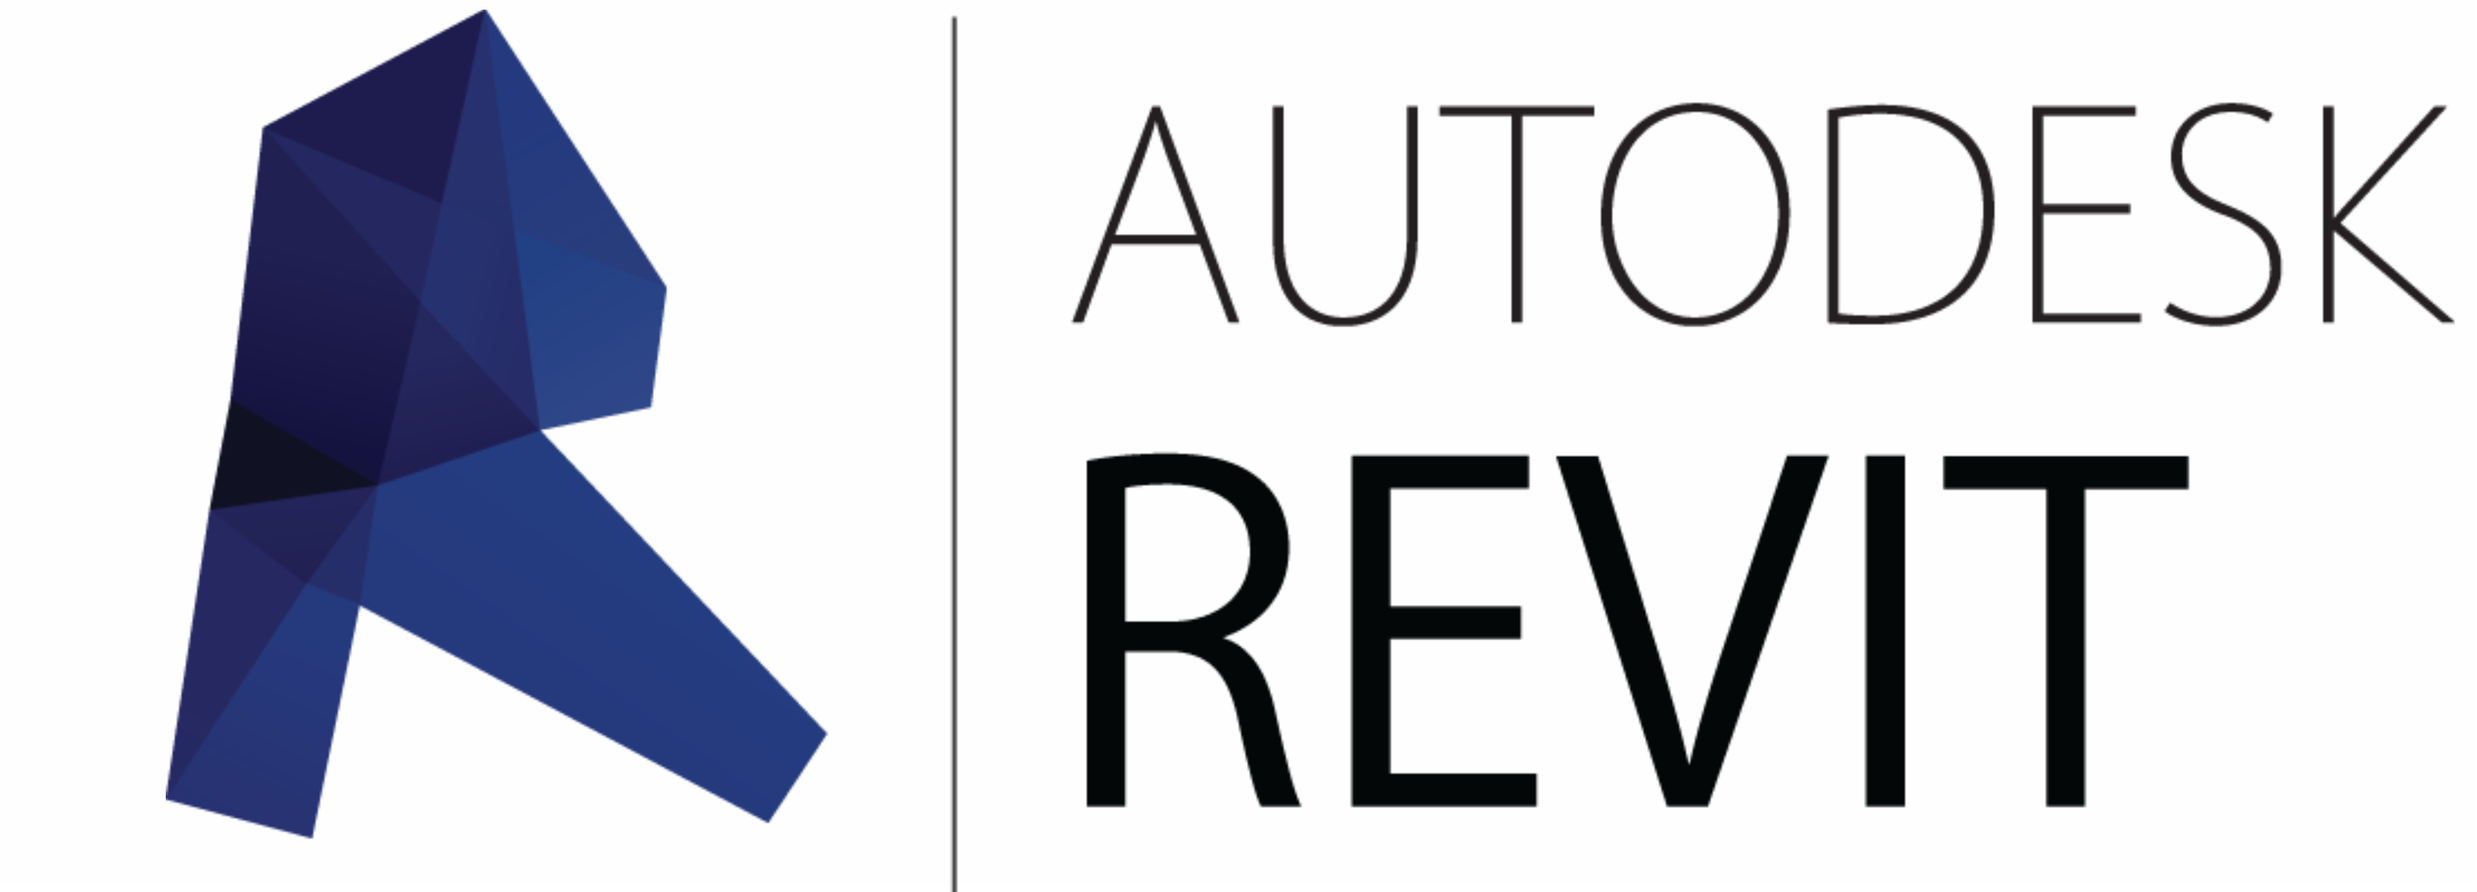
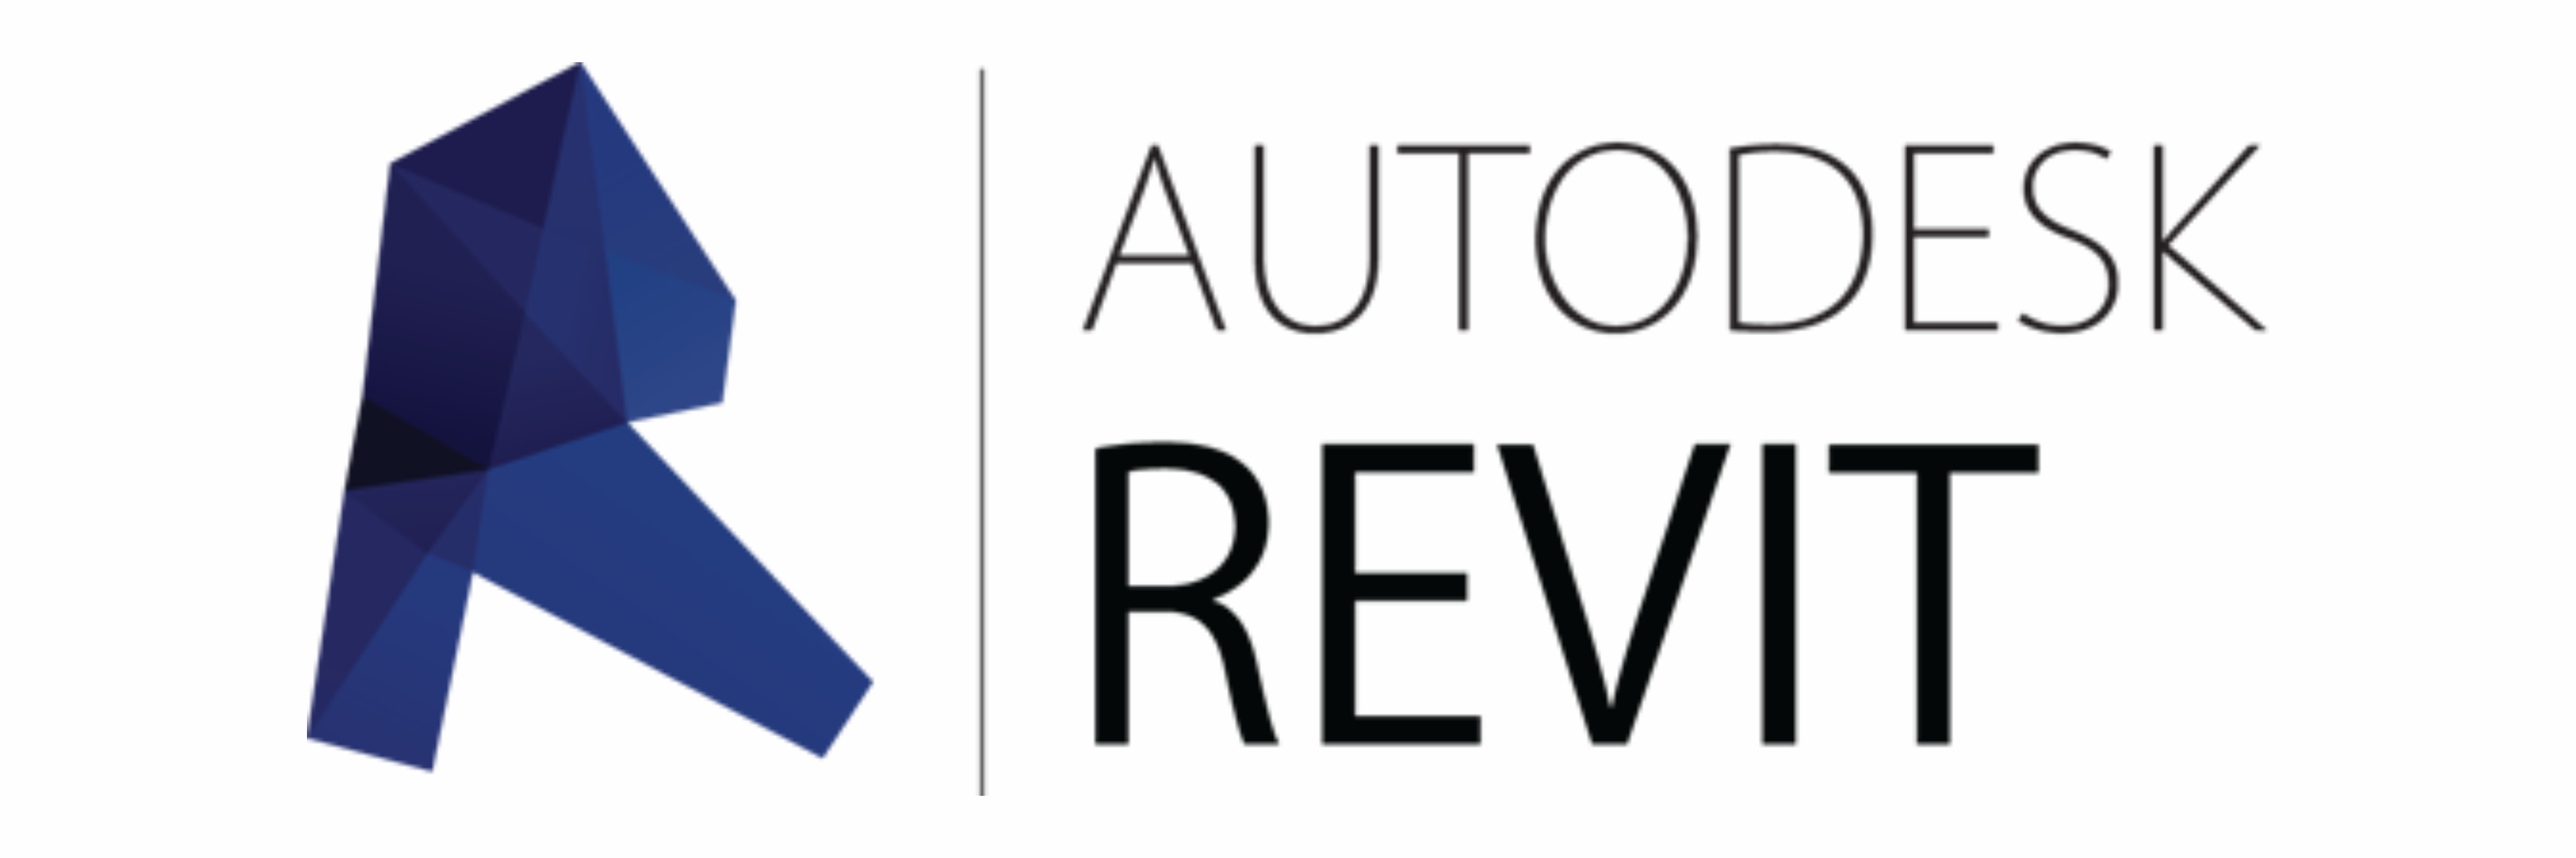
cambios en brand

Changed region(s): [[0.3743, 0.0625, 0.9981, 0.9375], [0.0624, 0.0, 0.3431, 0.9375]]

diff --git a/src/pages/tasks/Tasks.js b/src/pages/tasks/Tasks.js
@@ -1,0 +1,81 @@
+import React, { useState } from 'react'
+import { GiHornedHelm } from 'react-icons/gi'
+import { AiOutlinePlus, AiOutlineClose } from 'react-icons/ai'
+
+function Tasks() {
+  const [tasks, setTasks] = useState([])
+  const [input, setInput] = useState('')
+
+  // add tasks
+  const handleSubmit = (e) => {
+    e.preventDefault()
+    const addTask = {
+      id: Math.floor(Math.random() * 1000),
+      text: input,
+      completed: false
+    }
+    setTasks([...tasks, addTask])
+    setInput('')
+  }
+
+  // delete tasks
+  const deleteTask = (id) => {
+    let filteredTasks = [...tasks].filter((tasks) => tasks.id !== id)
+    setTasks(filteredTasks)
+    console.log('task deleted')
+  }
+
+  // toggle completed task
+  const toggleComplete = (id) => {
+    setTasks(
+      tasks.map(task => (
+        task.id === id ? { ...task, completed: !task.completed } : task
+      ))
+    )
+  }
+
+  const date = new Date()
+  // console.log(date)
+  const days = ["Sunday", "Monday", "Tuesday", "Wednesday", "Thursday", "Friday", "Saturday"]
+  const months = ["January", "February", "March", "April", "May", "June", "July", "August", "September", "October", "November", "December"]
+
+
+  return (
+    <div className='app'>
+      <div className="container">
+        <h1><GiHornedHelm /> Powerlist</h1>
+
+        <div className="date">
+          <p>{days[date.getDay()]}</p>
+          <p>{date.getDate()},</p>
+          <p>{months[date.getMonth()]}</p>
+          <p>{date.getFullYear()}</p>
+        </div>
+
+        <form onSubmit={handleSubmit}>
+          <div className="form-input">
+            <AiOutlinePlus className='icon' />
+            <input
+              value={input}
+              onChange={e => setInput(e.target.value)}
+              placeholder='Enter a task'
+              type="text" />
+          </div>
+        </form>
+
+        <div>
+          {tasks.map(task => (
+            <div className={`task-row ${task.completed ? 'completed' : ''}`} key={task.id} onDoubleClick={() => toggleComplete(task.id)} >
+              <p>{task.text} </p>
+              <AiOutlineClose onClick={() => deleteTask(task.id)} className='icon' />
+            </div>
+          ))}
+        </div>
+
+          <p className='length'>{(tasks < 1) ? 'You have no tasks' : `Tasks: ${tasks.length}`}</p>
+      </div>
+    </div>
+  );
+}
+
+export default Tasks;

diff --git a/src/App.js b/src/App.js
@@ -1,7 +1,7 @@
 import { BrowserRouter, Routes, Route } from 'react-router-dom';
 import { Navbar } from './components';
 import { Footer } from './containers';
-import { Home, Mineria, Coinsearch, Familia, ErrorPage } from './pages';
+import { Home, Mineria, Coinsearch, Familia, Tareas, ErrorPage } from './pages';
 
 import './App.css';
 
@@ -14,6 +14,7 @@ export default function App() {
                 <Route path="/mario_molina/mining" element={<Mineria />}/>
                 <Route path="/mario_molina/mining/coinsearch" element={<Coinsearch />}/>                
                 <Route path="/mario_molina/family" element={<Familia />}/>
+                <Route path="/mario_molina/tasks" element={<Tareas />}/>
                 <Route path="*" element={<ErrorPage />}/>
             </Routes>
             <Footer/>

diff --git a/src/components/brand/imports.js b/src/components/brand/imports.js
@@ -1,20 +1,9 @@
-import google from "../../assets/google.png"
-import slack from "../../assets/slack.png"
-import atlassian from "../../assets/atlassian.png"
-import dropbox from "../../assets/dropbox.png"
-import shopify from "../../assets/shopify.png"
-
 import autocad from "../../assets/soft/autocad.png"
 import revit from "../../assets/soft/revit.png"
 import cype from "../../assets/soft/cype.png"
 import lumion from "../../assets/soft/lumion.png"
 
-export {
-    google,
-    slack,
-    atlassian,
-    dropbox,
-    shopify,
+export {    
     autocad,
     revit,
     cype,

diff --git a/src/pages/index.js b/src/pages/index.js
@@ -2,4 +2,5 @@ export { default as Home } from './home/Home';
 export { default as Mineria } from './mining/Mining';
 export { default as Coinsearch } from './mining/coinsearch/Coinsearch';
 export { default as Familia } from './family/Family';
+export { default as Tareas } from './tasks/Tasks';
 export { default as ErrorPage } from './errorpage/ErrorPage';

diff --git a/src/components/navbar/Navbar.js b/src/components/navbar/Navbar.js
@@ -38,7 +38,7 @@ const Navbar = () => {
 					<Link to="/mario_molina/family" className="nav-link" onClick={closeMenu}>
 						Familia
 					</Link>
-				</li>
+				</li>				
 				<li className="nav-item">
 					<Link to="/mario_molina/" className="nav-link" onClick={closeMenu}>
 						Contacto

diff --git a/src/components/brand/brand.css b/src/components/brand/brand.css
@@ -7,9 +7,9 @@
 
 .gpt3__brand div {
     flex: 1;    
-    /*max-width: 150px;
-    min-width: 120px;*/
-    margin: 0rem;
+    max-width: 500px;
+    min-width: 220px;
+    margin: 1rem;
 
     display: flex;
     justify-content: center;
